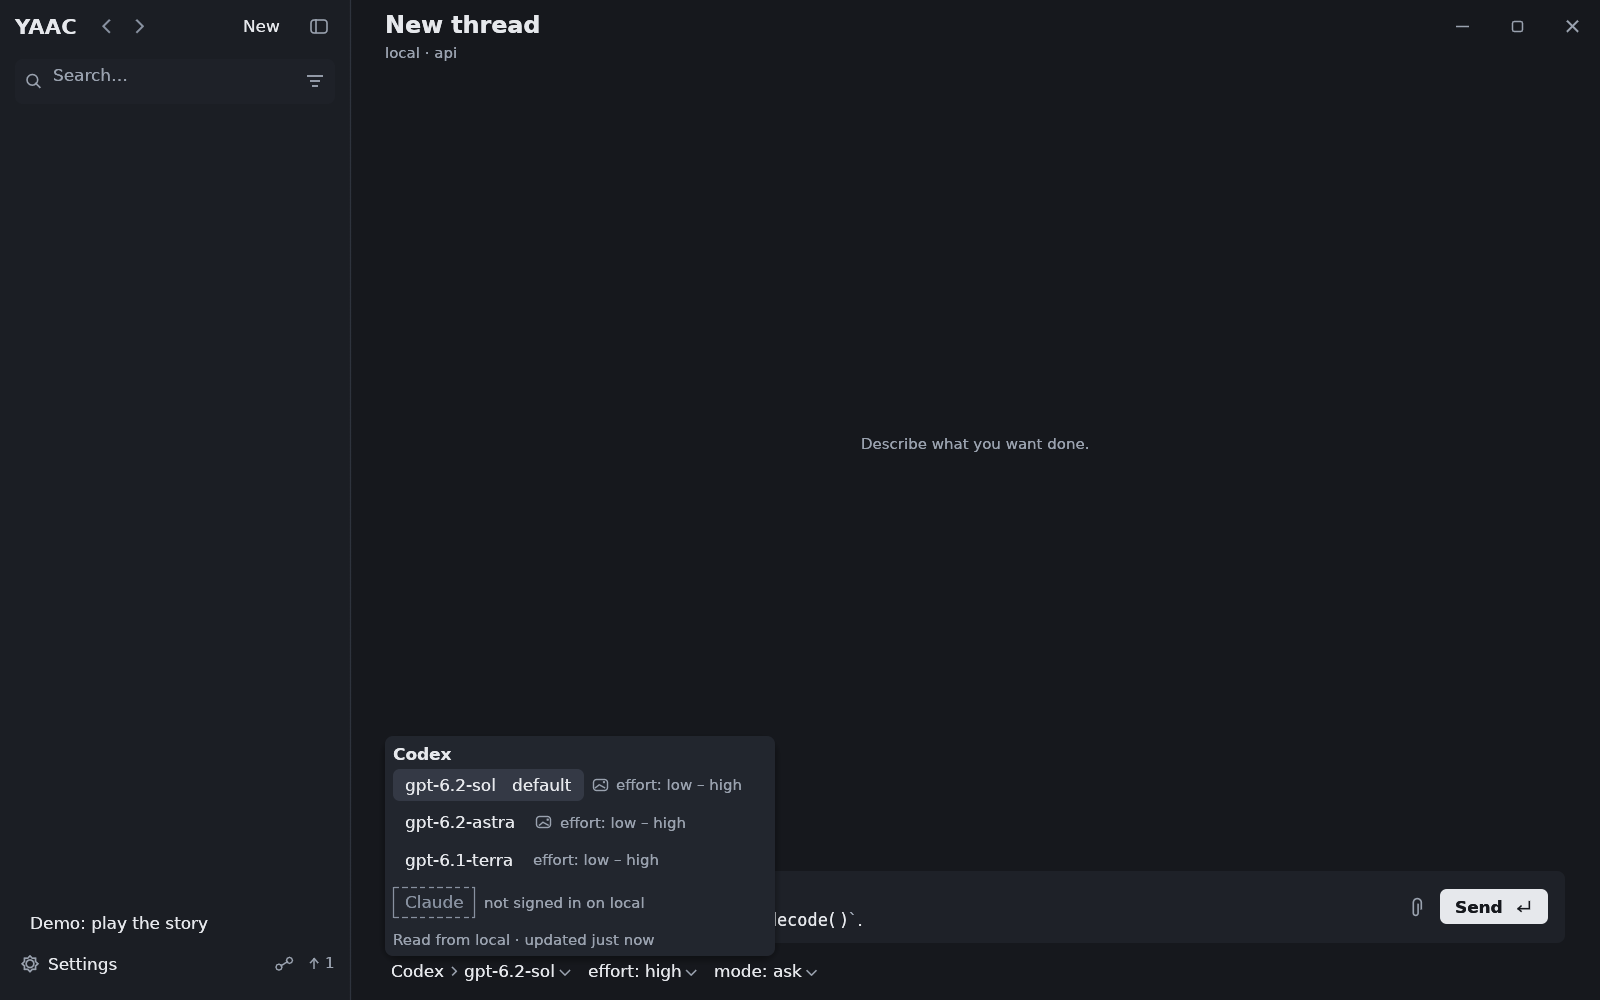
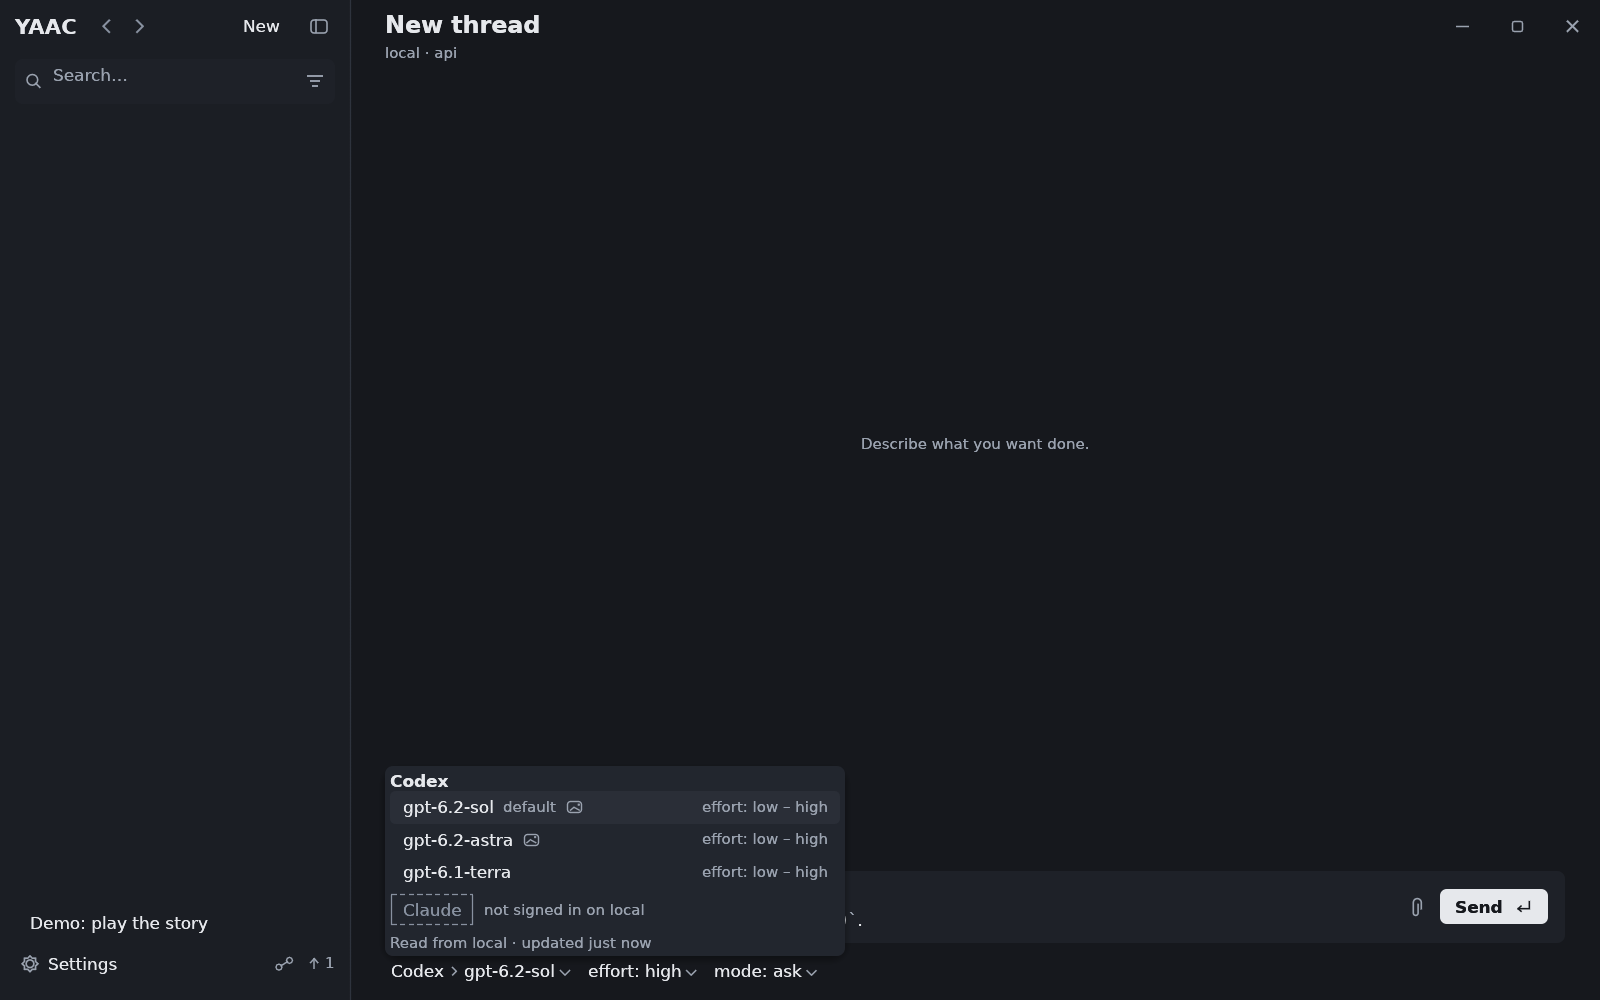
One menu style for every context menu, dropdown and picker
Menus were drawn with the global button style: each item its own darker button sized to its
text, with gaps and no visible hover (the hover fill equalled the resting one). Every popup
menu now goes through widgets::menu_popup: items are full-width rows with no fill of their
own on the raised surface (soft shadow, small radius, a little inner padding), no gaps, the
hovered-sidebar-row tint on hover and focus, a stronger one when pressed, hairline
separators. widgets::menu_item adds the unavailable colour for disabled items, the failed
colour for destructive ones, and a right-aligned shortcut (the transcript's Copy, Ctrl+C);
widgets::menu_row is the same row for richer content (the model picker). Screen 41 shows a
sidebar row's menu with one row hovered; screens 08, 26, 30 and 31 regenerated.

Changed region(s): [[0.25, 0.744, 0.5312, 0.961], [0.5, 0.899, 0.5312, 0.93]]

diff --git a/crates/yaac-app/src/composer.rs b/crates/yaac-app/src/composer.rs
@@ -429,7 +429,7 @@ fn choice_menu<T: Clone + PartialEq>(
         app.ui.toggle_menu(menu.clone());
     }
     let mut open = app.ui.menu.as_ref() == Some(menu);
-    egui::Popup::from_response(&r)
+    crate::widgets::menu_popup(egui::Popup::from_response(&r), &p)
         .kind(egui::PopupKind::Menu)
         .align(egui::RectAlign::TOP_START)
         .open_bool(&mut open)
@@ -471,13 +471,14 @@ fn control_row(ui: &mut egui::Ui, app: &mut YaacApp, row: &ControlRow, target: &
                 app.ui.toggle_menu(Menu::Model);
             }
             let mut open = app.ui.menu == Some(Menu::Model);
-            egui::Popup::from_response(&r)
+            crate::widgets::menu_popup(egui::Popup::from_response(&r), &p)
                 .kind(egui::PopupKind::Menu)
                 .align(egui::RectAlign::TOP_START)
                 .open_bool(&mut open)
                 .close_behavior(egui::PopupCloseBehavior::CloseOnClick)
                 .show(|ui| {
                     ui.set_min_width(300.0);
+                    ui.set_max_width(360.0);
                     for g in &m.groups {
                         if let Some(reason) = &g.reason {
                             // The whole group is unavailable: its name in the unavailable
@@ -488,25 +489,33 @@ fn control_row(ui: &mut egui::Ui, app: &mut YaacApp, row: &ControlRow, target: &
                         }
                         ui.label(egui::RichText::new(&g.name).font(theme::bold(size::UI)));
                         for model in &g.models {
-                            ui.horizontal(|ui| {
-                                let mut text = model.name.clone();
-                                if model.is_default {
-                                    text.push_str("   default");
-                                }
-                                let r = ui.add_enabled(model.enabled, egui::Button::selectable(model.selected, text));
-                                if model.image.is_supported() {
-                                    widgets::icon(ui, 14.0, |pa, c, d| icons::image(pa, c, d, p.text2));
-                                }
-                                if let Some(e) = &model.effort_range {
-                                    ui.label(widgets::secondary(e, &p));
-                                }
-                                if r.clicked() {
-                                    actions.push(match target {
-                                        Target::Thread(k) => Action::SetModel(k.clone(), model.id.clone()),
-                                        Target::Draft(id) => Action::DraftModel(*id, g.instance.clone(), model.id.clone()),
-                                    });
-                                }
-                            });
+                            // One full-width menu row: the name (and "default"), the image mark,
+                            // and the effort range right-aligned.
+                            let (r, rect) = widgets::menu_row(ui, &p, model.selected, model.enabled);
+                            let ink = if model.enabled { p.text } else { p.unavailable };
+                            let font = theme::ui(size::UI);
+                            let mut x = rect.left() + 10.0;
+                            let g1 = ui.fonts_mut(|f| f.layout_no_wrap(model.name.clone(), font.clone(), ink));
+                            ui.painter().galley(egui::pos2(x, rect.center().y - g1.size().y / 2.0), g1.clone(), ink);
+                            x += g1.size().x + 8.0;
+                            if model.is_default {
+                                let gd = ui.fonts_mut(|f| f.layout_no_wrap("default".to_owned(), theme::ui(size::SMALL), p.text2));
+                                ui.painter().galley(egui::pos2(x, rect.center().y - gd.size().y / 2.0), gd.clone(), p.text2);
+                                x += gd.size().x + 8.0;
+                            }
+                            if model.image.is_supported() {
+                                icons::image(ui.painter(), egui::pos2(x + 7.0, rect.center().y), 14.0, p.text2);
+                            }
+                            if let Some(e) = &model.effort_range {
+                                let ge = ui.fonts_mut(|f| f.layout_no_wrap(e.clone(), theme::ui(size::SMALL), p.text2));
+                                ui.painter().galley(egui::pos2(rect.right() - 10.0 - ge.size().x, rect.center().y - ge.size().y / 2.0), ge, p.text2);
+                            }
+                            if r.clicked() {
+                                actions.push(match target {
+                                    Target::Thread(k) => Action::SetModel(k.clone(), model.id.clone()),
+                                    Target::Draft(id) => Action::DraftModel(*id, g.instance.clone(), model.id.clone()),
+                                });
+                            }
                         }
                         ui.add_space(4.0);
                     }
@@ -584,7 +593,7 @@ pub(crate) fn draft_view(ui: &mut egui::Ui, app: &mut YaacApp, id: u64, actions:
         let mut open = app.ui.menu == Some(Menu::Project);
         let groups = yaac_core::first_run::project_picker(&app.client.state, d.project.as_deref());
         let mut new_project = false;
-        egui::Popup::from_response(&r).kind(egui::PopupKind::Menu).align(egui::RectAlign::TOP_START).open_bool(&mut open).close_behavior(egui::PopupCloseBehavior::CloseOnClick).show(|ui| {
+        crate::widgets::menu_popup(egui::Popup::from_response(&r), &p).kind(egui::PopupKind::Menu).align(egui::RectAlign::TOP_START).open_bool(&mut open).close_behavior(egui::PopupCloseBehavior::CloseOnClick).show(|ui| {
             ui.set_min_width(280.0);
             for g in &groups {
                 ui.horizontal(|ui| {

diff --git a/crates/yaac-app/src/widgets.rs b/crates/yaac-app/src/widgets.rs
@@ -419,3 +419,78 @@ pub(crate) fn icon_button(ui: &mut Ui, p: &Palette, d: f32, hover: &str, f: impl
     resp
 }
 
+/// The one menu style (every context menu, dropdown and picker): items are full-width rows
+/// with no fill of their own, sitting on the menu's raised surface; hover and keyboard focus
+/// show the row tint of a hovered sidebar row, a press a little stronger; no gaps between
+/// rows; separators are hairlines; a small inner padding and corner radius.
+pub(crate) fn menu_popup<'a>(popup: egui::Popup<'a>, p: &Palette) -> egui::Popup<'a> {
+    let p = *p;
+    popup
+        .style(move |s: &mut egui::Style| {
+            s.spacing.button_padding = egui::vec2(10.0, 5.0);
+            s.spacing.item_spacing = egui::vec2(8.0, 0.0);
+            s.spacing.menu_margin = egui::Margin::same(4);
+            s.spacing.interact_size.y = 26.0;
+            let w = &mut s.visuals.widgets;
+            for v in [&mut w.inactive, &mut w.hovered, &mut w.active, &mut w.open] {
+                v.bg_stroke = Stroke::NONE;
+                v.corner_radius = CornerRadius::same(4);
+                v.expansion = 0.0;
+            }
+            w.inactive.weak_bg_fill = Color32::TRANSPARENT;
+            w.hovered.weak_bg_fill = p.faint;
+            w.open.weak_bg_fill = p.faint;
+            w.active.weak_bg_fill = p.selected;
+            w.noninteractive.bg_stroke = Stroke::new(1.0, p.border);
+            s.visuals.window_fill = p.raised;
+        })
+        .layout(egui::Layout::top_down_justified(egui::Align::Min))
+}
+
+/// What kind of menu row.
+#[derive(Clone, Copy, Debug, PartialEq, Eq)]
+pub(crate) enum ItemKind {
+    /// An ordinary action.
+    Normal,
+    /// One that destroys or stops something (Delete, Stop…): the failed colour. No menu has
+    /// such an item yet.
+    #[allow(dead_code, reason = "the shared menu style offers it; no menu has a destructive item yet")]
+    Danger,
+    /// Not available now: the unavailable colour, no hover.
+    Disabled,
+}
+
+/// One menu row, with an optional right-aligned shortcut in the secondary colour.
+pub(crate) fn menu_item(ui: &mut Ui, p: &Palette, label: &str, shortcut: Option<&str>, kind: ItemKind) -> Response {
+    let color = match kind {
+        ItemKind::Normal => p.text,
+        ItemKind::Danger => p.failed,
+        ItemKind::Disabled => p.unavailable,
+    };
+    let mut b = egui::Button::new(egui::RichText::new(label).color(color));
+    if let Some(s) = shortcut {
+        b = b.shortcut_text(egui::RichText::new(s).color(p.text2).font(theme::ui(size::SMALL)));
+    }
+    ui.add_enabled(kind != ItemKind::Disabled, b)
+}
+
+/// A full-width menu row the caller draws into (for rows with more than a label): the row
+/// tint on hover or keyboard focus, stronger when pressed, the selection tint when chosen.
+/// Disabled rows do not react.
+pub(crate) fn menu_row(ui: &mut Ui, p: &Palette, selected: bool, enabled: bool) -> (Response, Rect) {
+    let h = ui.spacing().interact_size.y.max(26.0);
+    let (rect, resp) = ui.allocate_exact_size(Vec2::new(ui.available_width(), h), if enabled { Sense::click() } else { Sense::hover() });
+    let fill = if !enabled {
+        None
+    } else if resp.is_pointer_button_down_on() || selected {
+        Some(p.selected)
+    } else if resp.hovered() || resp.has_focus() {
+        Some(p.faint)
+    } else {
+        None
+    };
+    if let Some(f) = fill {
+        ui.painter().rect_filled(rect, 4.0, f);
+    }
+    (resp, rect)
+}

diff --git a/crates/yaac-app/src/sidebar.rs b/crates/yaac-app/src/sidebar.rs
@@ -250,7 +250,7 @@ fn search_field(ui: &mut egui::Ui, app: &mut YaacApp, enabled: bool) {
         app.ui.toggle_menu(Menu::Grouping);
     }
     let mut open = app.ui.menu == Some(Menu::Grouping);
-    egui::Popup::from_response(&resp)
+    crate::widgets::menu_popup(egui::Popup::from_response(&resp), &p)
         .kind(egui::PopupKind::Menu)
         .open_bool(&mut open)
         .close_behavior(egui::PopupCloseBehavior::CloseOnClickOutside)
@@ -288,7 +288,7 @@ fn header(ui: &mut egui::Ui, app: &mut YaacApp, s: &Section, rect: Rect, actions
         }
         let mut open = app.ui.menu == Some(Menu::TempProject(s.id.clone()));
         if open {
-            egui::Popup::from_response(&resp)
+            crate::widgets::menu_popup(egui::Popup::from_response(&resp), &p)
                 .kind(egui::PopupKind::Menu)
                 .open_bool(&mut open)
                 .close_behavior(egui::PopupCloseBehavior::CloseOnClick)
@@ -491,7 +491,7 @@ pub(crate) fn row(ui: &mut egui::Ui, app: &mut YaacApp, s: &Section, r: usize, r
     }
     let mut open = app.ui.menu == Some(Menu::Context(row.key.clone())) && s.kind != SectionKind::NeedsYou;
     if open {
-        egui::Popup::from_response(&resp)
+        crate::widgets::menu_popup(egui::Popup::from_response(&resp), &p)
             .kind(egui::PopupKind::Menu)
             .align(egui::RectAlign::RIGHT_START)
             .open_bool(&mut open)
@@ -549,7 +549,7 @@ pub(crate) fn row(ui: &mut egui::Ui, app: &mut YaacApp, s: &Section, r: usize, r
 
 fn demo_menu(ui: &mut egui::Ui, app: &mut YaacApp, resp: &egui::Response, actions: &mut Vec<Action>) {
     let mut open = app.ui.menu == Some(Menu::Demo);
-    egui::Popup::from_response(resp)
+    crate::widgets::menu_popup(egui::Popup::from_response(resp), &app.p)
         .kind(egui::PopupKind::Menu)
         .align(egui::RectAlign::TOP_START)
         .open_bool(&mut open)

diff --git a/crates/yaac-app/src/settings.rs b/crates/yaac-app/src/settings.rs
@@ -805,7 +805,7 @@ fn providers(ui: &mut egui::Ui, app: &mut YaacApp, actions: &mut Vec<Action>) {
         }
         let mut open = app.ui.menu == Some(Menu::SettingsTarget);
         let names: Vec<(TargetId, String)> = app.client.state.targets.iter().map(|t| (t.entry.id.clone(), t.entry.name.to_string())).collect();
-        egui::Popup::from_response(&r).kind(egui::PopupKind::Menu).open_bool(&mut open).close_behavior(egui::PopupCloseBehavior::CloseOnClick).show(|ui| {
+        crate::widgets::menu_popup(egui::Popup::from_response(&r), &p).kind(egui::PopupKind::Menu).open_bool(&mut open).close_behavior(egui::PopupCloseBehavior::CloseOnClick).show(|ui| {
             ui.set_min_width(160.0);
             for (id, n) in &names {
                 if ui.selectable_label(id == &target, n).clicked() {
@@ -838,7 +838,7 @@ fn providers(ui: &mut egui::Ui, app: &mut YaacApp, actions: &mut Vec<Action>) {
         }
         let mut open = app.ui.menu == Some(Menu::InstanceKind);
         let kinds: Vec<_> = v.kinds.iter().map(|k| (k.clone(), kind_label(&app.client.state, k))).collect();
-        egui::Popup::from_response(&r).kind(egui::PopupKind::Menu).open_bool(&mut open).close_behavior(egui::PopupCloseBehavior::CloseOnClick).show(|ui| {
+        crate::widgets::menu_popup(egui::Popup::from_response(&r), &p).kind(egui::PopupKind::Menu).open_bool(&mut open).close_behavior(egui::PopupCloseBehavior::CloseOnClick).show(|ui| {
             for (k, l) in &kinds {
                 if ui.selectable_label(app.ui.set.add_kind.as_ref() == Some(k), l).clicked() {
                     app.ui.set.add_kind = Some(k.clone());

diff --git a/crates/yaac-app/src/dialogs.rs b/crates/yaac-app/src/dialogs.rs
@@ -128,7 +128,7 @@ pub(crate) fn fork(ctx: &egui::Context, app: &mut YaacApp, actions: &mut Vec<Act
         }
         let mut open = app.ui.menu == Some(Menu::ForkDest);
         let mut picked: Option<ForkChoice> = None;
-        egui::Popup::from_response(&r).kind(egui::PopupKind::Menu).open_bool(&mut open).close_behavior(egui::PopupCloseBehavior::CloseOnClick).show(|ui| {
+        crate::widgets::menu_popup(egui::Popup::from_response(&r), &p).kind(egui::PopupKind::Menu).open_bool(&mut open).close_behavior(egui::PopupCloseBehavior::CloseOnClick).show(|ui| {
             ui.set_min_width(300.0);
             for dest in &v.destinations {
                 ui.horizontal(|ui| {
@@ -275,7 +275,7 @@ pub(crate) fn mute(ctx: &egui::Context, app: &mut YaacApp, actions: &mut Vec<Act
             }
             // A selector (a word and a chevron), not a boxed combo.
             let sel = widgets::selector(ui, &p, d.unit.label(), true);
-            egui::Popup::menu(&sel).show(|ui| {
+            crate::widgets::menu_popup(egui::Popup::menu(&sel), &p).show(|ui| {
                 for u in DurationUnit::ALL {
                     if ui.selectable_label(u == d.unit, u.label()).clicked() {
                         d.unit = u;

diff --git a/crates/yaac-app/src/app.rs b/crates/yaac-app/src/app.rs
@@ -123,6 +123,8 @@ pub(crate) struct UiState {
     pub threads_overlay: bool,
     /// Screenshots only: show the "Drop to attach" target as if files were dragged over.
     pub drop_preview: bool,
+    /// Screenshots only: the pointer rests here (a hovered menu row).
+    pub shot_pointer: Option<egui::Pos2>,
     /// Screenshots only: lay the shell out in this size instead of the window's.
     pub layout_size: Option<egui::Vec2>,
     /// The settings pages' own state.
@@ -185,6 +187,7 @@ impl UiState {
             fork: None,
             threads_overlay: false,
             drop_preview: false,
+            shot_pointer: None,
             layout_size: None,
             set: crate::settings::SettingsUi::default(),
             heights: HashMap::new(),
@@ -1113,6 +1116,9 @@ impl eframe::App for YaacApp {
             }
         }
         raw.events.append(&mut self.files.paste_events);
+        if let Some(at) = self.ui.shot_pointer.filter(|_| self.shots.is_some()) {
+            raw.events.push(egui::Event::PointerMoved(at));
+        }
     }
 
     fn logic(&mut self, ctx: &egui::Context, _frame: &mut eframe::Frame) {

diff --git a/crates/yaac-app/src/screenshot.rs b/crates/yaac-app/src/screenshot.rs
@@ -58,6 +58,7 @@ pub(crate) const SCREENS: &[(&str, &str)] = &[
     ("38", "attach-unsupported"),
     ("39", "attach-unknown"),
     ("40", "attach-drop"),
+    ("41", "context-menu"),
 ];
 
 /// Screen 21 is drawn at the smallest supported window: 960 × 720 points.
@@ -442,6 +443,13 @@ fn setup(app: &mut YaacApp, id: &str) {
                 app.files.set_thumb(crate::files::ThumbKey::Path(format!("/home/dev/Pictures/{name}")), Some(crate::files::demo_thumb()));
             }
             app.ui.focus_card = None;
+        }
+        "41" => {
+            // A sidebar row's right-click menu, its second row hovered.
+            app.open(&threads::fix(), None);
+            app.ui.focus_card = None;
+            app.ui.menu = Some(Menu::Context(threads::fix()));
+            app.ui.shot_pointer = Some(egui::pos2(320.0, 590.0));
         }
         "36" => {
             // The sidebar dragged wider.

diff --git a/crates/yaac-app/src/thread.rs b/crates/yaac-app/src/thread.rs
@@ -363,8 +363,8 @@ fn transcript(ui: &mut egui::Ui, app: &mut YaacApp, map: &AttentionMap, key: &Th
                 let bg = ui.interact(rect, ui.scope_id().with(("message-menu", hashes[i])), Sense::click());
                 let has_sel = app.ui.textsel.selection().is_some();
                 let mut copy_sel = false;
-                bg.context_menu(|ui| {
-                    if has_sel && ui.button("Copy").clicked() {
+                crate::widgets::menu_popup(egui::Popup::context_menu(&bg), &p).show(|ui| {
+                    if has_sel && crate::widgets::menu_item(ui, &p, "Copy", Some("Ctrl+C"), crate::widgets::ItemKind::Normal).clicked() {
                         copy_sel = true;
                         ui.close();
                     }

diff --git a/docs/design/screens.md b/docs/design/screens.md
@@ -1073,3 +1073,15 @@ reflex.*
   "Choose how to send sketch.png" under the text.
 - **40** — files dragged over the window: the thread view dims and shows a quiet faint panel
   with a paper clip and "Drop to attach".
+
+### 41 — A context menu
+
+*One menu style everywhere: context menus, dropdowns, pickers, the history list.*
+
+- A sidebar row's right-click menu: **Pin, Mute…, Archive, Rename, Fork, Copy ID**. The menu
+  is the raised surface with a soft shadow, a small corner radius and a little inner padding.
+  Items are full-width rows with no fill of their own and no gaps; the hovered row
+  (**Mute…**) has the hovered-sidebar-row tint, a pressed one is a little stronger. Disabled
+  items are in the unavailable colour with no hover; destructive items in the failed colour;
+  separators are hairlines; a shortcut, when an item has one, is right-aligned in the
+  secondary colour (the transcript's **Copy  Ctrl+C**).
